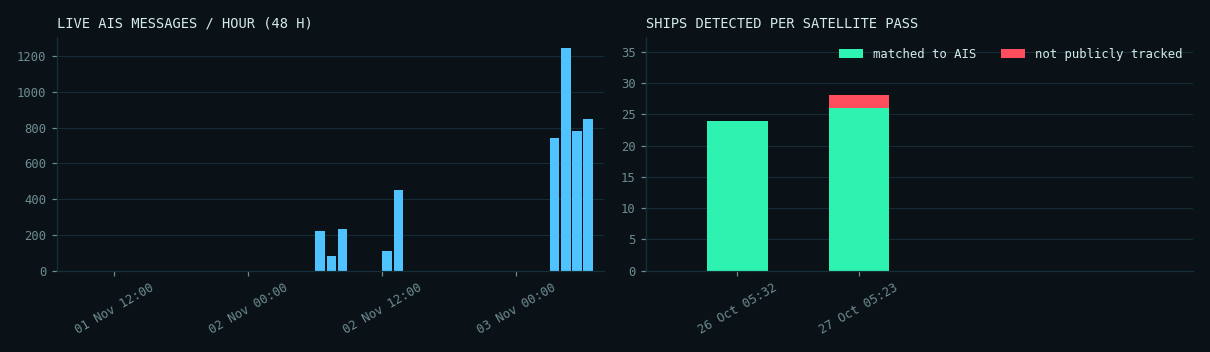
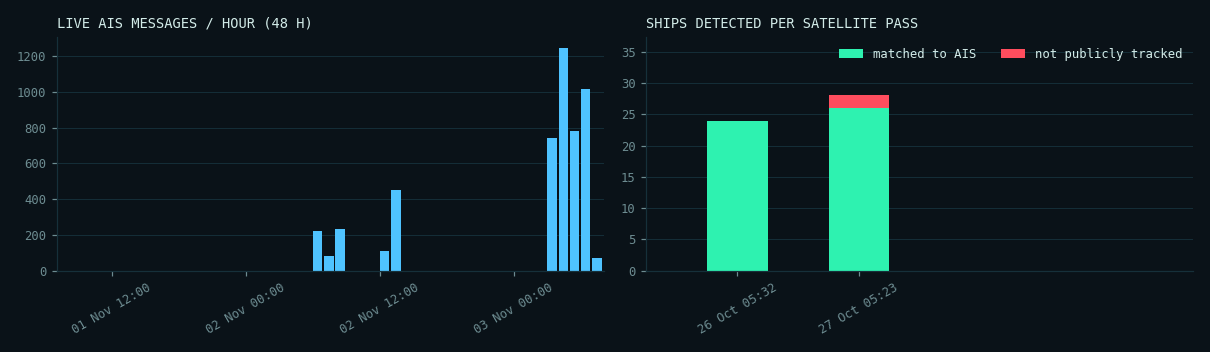
Automatic site update 2026-11-03 07:04 UTC

diff --git a/docs/denmark/index.html b/docs/denmark/index.html
@@ -83,7 +83,7 @@ footer{border-top:1px solid var(--line);padding:18px 0 28px;font:12px/1.6 var(--
   <div><div class="kicker">SAR &times; AIS &middot; MARITIME AWARENESS</div><div class="title">DARK VESSEL <b>DETECTION</b></div></div></a>
  <div class="status"><span class="pill"><span class="dot live"></span>AIS FEED <strong>LIVE</strong></span>
   <span class="pill">UTC <strong id="utc">--:--:--</strong></span>
-  <span class="pill">UPDATED <strong>03 Nov 06:51</strong></span></div>
+  <span class="pill">UPDATED <strong>03 Nov 07:05</strong></span></div>
 </div><nav class="tabs"><a class="" href="../index.html">OVERVIEW</a><a class="" href="../mumbai/index.html">MUMBAI</a><a class="on" href="../denmark/index.html">DENMARK</a><a class="" href="../nn/index.html">NEURAL NET</a><a class="" href="../demo/index.html">SIMULATION</a></nav></div></header>
 <main class="wrap"><div class="coords">SECTOR // DENMARK &middot; 55.55&ndash;55.85&deg;N &middot; 12.55&ndash;12.95&deg;E</div>
 <h1>Oresund, Copenhagen (Denmark/Sweden)</h1><p class="lede">Validation area. Sentinel-1 images it almost daily and coastal AIS coverage is dense, so the full match between radar and AIS can be shown and checked.</p>
@@ -98,7 +98,7 @@ footer{border-top:1px solid var(--line);padding:18px 0 28px;font:12px/1.6 var(--
 <div class="legend"><span><i style="background:var(--green)"></i>matched to AIS</span><span><i style="background:var(--red)"></i>not tracked &middot; high confidence</span>
 <span><i style="background:var(--amber)"></i>not tracked &middot; low confidence</span><span><i style="background:var(--cyan)"></i>live AIS position</span></div>
 <div id="map" class="map"></div><script>
-const D=[{"lon": 12.574560869565218, "lat": 55.849597826086956, "length_m": 72.681575622935, "score": 0.6554655519501138, "shore_km": 0.14150886088341372, "status": "matched", "reason": "", "confidence": "high", "crop": "", "ship_prob": 0.9335045218467712}, {"lon": 12.704759174311928, "lat": 55.82280412844037, "length_m": 364.1071436957287, "score": 0.9904753373251979, "shore_km": 9.407061429825474, "status": "matched", "reason": "", "confidence": "high", "crop": "", "ship_prob": 0.9868959784507751}, {"lon": 12.786416463414636, "lat": 55.804669512195126, "length_m": 155.0522474362954, "score": 0.9999646038759398, "shore_km": 4.658419014138412, "status": "matched", "reason": "", "confidence": "high", "crop": "", "ship_prob": 0.9993557333946228}, {"lon": 12.88229375, "lat": 55.849146875, "length_m": 53.38783327710226, "score": 0.9899546194309776, "shore_km": 0.9067240720863213, "status": "candidate", "reason": "same_spot_in_another_pass", "confidence": "low", "crop": "crops/S1-Oresund-20261027_37.png", "ship_prob": 0.7905591130256653}, {"lon": 12.604004166666668, "lat": 55.75985, "length_m": 141.84238362073958, "score": 0.6867268898684522, "shore_km": 0.07168283192738693, "status": "matched", "reason": "", "confidence": "high", "crop": "", "ship_prob": 0.5051270127296448}, {"lon": 12.605736764705883, "lat": 55.75241323529412, "length_m": 122.11483240811877, "score": 0.9136889320646264, "shore_km": 0.6454382429486746, "status": "candidate", "reason": "same_spot_in_another_pass", "confidence": "low", "crop": "crops/S1-Oresund-20261027_77.png", "ship_prob": 0.7927113175392151}, {"lon": 12.703722571428573, "lat": 55.77917742857143, "length_m": 223.0817648726515, "score": 0.9996320924909895, "shore_km": 5.943270442766068, "status": "matched", "reason": "", "confidence": "high", "crop": "", "ship_prob": 0.9938097596168518}, {"lon": 12.902757692307693, "lat": 55.75654230769231, "length_m": 65.46226537445588, "score": 0.7187896049600956, "shore_km": 0.03584141596369347, "status": "matched", "reason": "", "confidence": "high", "crop": "", "ship_prob": 0.8691755533218384}, {"lon": 12.589922222222222, "lat": 55.725764814814816, "length_m": 146.45480845096748, "score": 0.9957587025210503, "shore_km": 0.034771280891766385, "status": "matched", "reason": "", "confidence": "high", "crop": "", "ship_prob": 0.9983701109886169}, {"lon": 12.598472047244096, "lat": 55.72077913385827, "length_m": 207.62671185403417, "score": 0.609772230082722, "shore_km": 0.14016751439395445, "status": "matched", "reason": "", "confidence": "high", "crop": "", "ship_prob": 0.6074324250221252}, {"lon": 12.589218, "lat": 55.712854, "length_m": 90.49550243938293, "score": 0.6486089656085543, "shore_km": 0.043464101114707984, "status": "matched", "reason": "", "confidence": "high", "crop": "", "ship_prob": 0.9998902082443237}, {"lon": 12.59024090909091, "lat": 55.71147090909091, "length_m": 162.54265478639104, "score": 1.0, "shore_km": 0.06146752127277559, "status": "matched", "reason": "", "confidence": "high", "crop": "", "ship_prob": 0.9999992847442627}, {"lon": 12.597835937500001, "lat": 55.701648437500005, "length_m": 133.31776511703256, "score": 0.9396217092764791, "shore_km": 0.06789309632894441, "status": "matched", "reason": "", "confidence": "high", "crop": "", "ship_prob": 0.9999727010726929}, {"lon": 12.60914, "lat": 55.69712, "length_m": 65.36743236464424, "score": 0.7827588237578229, "shore_km": 0.03134240904220623, "status": "matched", "reason": "", "confidence": "high", "crop": "", "ship_prob": 0.9867132902145386}, {"lon": 12.668552272727274, "lat": 55.72007840909091, "length_m": 207.26605497726354, "score": 0.6251792307103263, "shore_km": 0.03584141596369347, "status": "matched", "reason": "", "confidence": "high", "crop": "", "ship_prob": 0.9087074398994446}, {"lon": 12.5996, "lat": 55.68885, "length_m": 40.00855981470757, "score": 0.7664068666153926, "shore_km": 0.024587008509110237, "status": "matched", "reason": "", "confidence": "high", "crop": "", "ship_prob": 0.9766618013381958}, {"lon": 12.595819230769232, "lat": 55.67989871794872, "length_m": 127.62371588738732, "score": 0.9426870407335851, "shore_km": 0.05068741655051085, "status": "matched", "reason": "", "confidence": "high", "crop": "", "ship_prob": 0.9998841285705566}, {"lon": 12.594722222222224, "lat": 55.67918888888889, "length_m": 40.64467714079742, "score": 0.7639524834029205, "shore_km": 0.043464101114707984, "status": "matched", "reason": "", "confidence": "high", "crop": "", "ship_prob": 0.9999454021453857}, {"lon": 12.610660714285714, "lat": 55.69618571428572, "length_m": 94.51225356515693, "score": 0.9621795096736379, "shore_km": 0.03134240904220623, "status": "matched", "reason": "", "confidence": "high", "crop": "", "ship_prob": 0.999042809009552}, {"lon": 12.649045000000001, "lat": 55.692155, "length_m": 80.63364746000343, "score": 0.8515033668168979, "shore_km": 0.8863693295037299, "status": "matched", "reason": "", "confidence": "high", "crop": "", "ship_prob": 0.4333752989768982}, {"lon": 12.630751724137932, "lat": 55.685453448275865, "length_m": 125.00287123881988, "score": 0.93629426700422, "shore_km": 0.043464101114707984, "status": "matched", "reason": "", "confidence": "high", "crop": "", "ship_prob": 0.9975905418395996}, {"lon": 12.634987254901962, "lat": 55.677338235294116, "length_m": 276.5478352749318, "score": 0.7686103584091717, "shore_km": 0.024587008509110237, "status": "matched", "reason": "", "confidence": "high", "crop": "", "ship_prob": 0.9729636907577515}, {"lon": 12.68766150442478, "lat": 55.69581814159292, "length_m": 176.8074930452176, "score": 0.923202226335388, "shore_km": 2.6834920471942074, "status": "matched", "reason": "", "confidence": "high", "crop": "", "ship_prob": 0.8427141904830933}, {"lon": 12.65826847826087, "lat": 55.63610108695652, "length_m": 174.21377549767067, "score": 0.9833187000337672, "shore_km": 0.043464101114707984, "status": "matched", "reason": "", "confidence": "high", "crop": "", "ship_prob": 0.9998973608016968}, {"lon": 12.680683333333334, "lat": 55.610910000000004, "length_m": 74.22790892756812, "score": 0.6314184609397504, "shore_km": 0.03134240904220623, "status": "matched", "reason": "", "confidence": "high", "crop": "", "ship_prob": 0.44054293632507324}, {"lon": 12.868352132196163, "lat": 55.60022420042644, "length_m": 299.20726350177785, "score": 0.9999960398718075, "shore_km": 2.8169298200726325, "status": "matched", "reason": "", "confidence": "high", "crop": "", "ship_prob": 0.9967911839485168}, {"lon": 12.680875, "lat": 55.59323, "length_m": 95.51211981545671, "score": 0.7585723176580392, "shore_km": 0.03584141596369347, "status": "matched", "reason": "", "confidence": "high", "crop": "", "ship_prob": 0.797581672668457}, {"lon": 12.706387741935485, "lat": 55.56306903225806, "length_m": 301.4640427512081, "score": 0.9999731380181186, "shore_km": 3.1965238712919084, "status": "matched", "reason": "", "confidence": "high", "crop": "", "ship_prob": 0.9941650032997131}],LIVE=[{"lon": 12.488356666666666, "lat": 55.51745833333334, "sog": 0.0, "age": 20}, {"lon": 12.833333333333334, "lat": 55.855916666666666, "sog": 0.0, "age": 18}, {"lon": 12.98892, "lat": 55.62665666666667, "sog": 0.0, "age": 17}, {"lon": 12.831928333333334, "lat": 55.85404333333334, "sog": 0.0, "age": 17}, {"lon": 12.72982, "lat": 55.75190166666666, "sog": 0.0, "age": 17}, {"lon": 12.630748333333335, "lat": 55.689814999999996, "sog": 0.0, "age": 16}, {"lon": 12.603531666666667, "lat": 55.760585, "sog": 0.0, "age": 14}, {"lon": 12.603488333333333, "lat": 55.76052, "sog": 0.0, "age": 12}, {"lon": 12.599025000000001, "lat": 55.68903, "sog": 0.0, "age": 11}, {"lon": 12.676871666666667, "lat": 55.593945, "sog": 0.0, "age": 11}, {"lon": 12.835138333333333, "lat": 55.85987, "sog": 0.0, "age": 9}, {"lon": 12.594931666666668, "lat": 55.68246333333333, "sog": 0.0, "age": 9}, {"lon": 12.8337, "lat": 55.85573333333333, "sog": 0.0, "age": 8}, {"lon": 12.67103, "lat": 55.80437, "sog": 7.5, "age": 8}, {"lon": 12.830375, "lat": 55.85599, "sog": 0.0, "age": 8}, {"lon": 12.74443, "lat": 55.99321833333333, "sog": 0.0, "age": 7}, {"lon": 12.997241666666667, "lat": 55.61376166666666, "sog": 0.0, "age": 7}, {"lon": 12.667035, "lat": 55.718873333333335, "sog": 0.0, "age": 7}, {"lon": 12.999793333333335, "lat": 55.618365000000004, "sog": 0.0, "age": 6}, {"lon": 12.892186666666667, "lat": 55.52375, "sog": 0.0, "age": 6}, {"lon": 12.827631666666667, "lat": 55.86268666666667, "sog": 0.0, "age": 5}, {"lon": 12.593483333333333, "lat": 55.679125, "sog": 0.0, "age": 5}, {"lon": 12.990161666666667, "lat": 55.626885, "sog": 0.0, "age": 4}, {"lon": 12.793591666666666, "lat": 55.86846833333333, "sog": 5.7, "age": 4}, {"lon": 12.67917, "lat": 55.85080833333333, "sog": 8.4, "age": 4}, {"lon": 12.90349, "lat": 55.756643333333336, "sog": 0.1, "age": 4}, {"lon": 12.927976666666666, "lat": 55.67614833333334, "sog": 5.0, "age": 4}, {"lon": 12.706881666666668, "lat": 55.500275, "sog": 11.5, "age": 4}, {"lon": 12.634101666666668, "lat": 55.67576, "sog": 0.0, "age": 4}, {"lon": 12.825263333333334, "lat": 55.86550833333333, "sog": 0.0, "age": 3}, {"lon": 12.823638333333333, "lat": 55.866409999999995, "sog": 0.1, "age": 3}, {"lon": 12.828116666666666, "lat": 55.86160666666667, "sog": 0.0, "age": 2}, {"lon": 12.680413333333332, "lat": 55.611255, "sog": 0.0, "age": 2}, {"lon": 13.058496666666667, "lat": 55.67566166666666, "sog": 0.0, "age": 2}, {"lon": 12.59298, "lat": 55.679265, "sog": 0.0, "age": 2}, {"lon": 12.67176, "lat": 55.43888166666667, "sog": 10.7, "age": 2}, {"lon": 12.8329, "lat": 55.85850666666667, "sog": 0.0, "age": 2}, {"lon": 12.690681666666668, "lat": 55.58618, "sog": 8.7, "age": 2}, {"lon": 12.800338333333334, "lat": 55.867713333333334, "sog": 5.7, "age": 2}, {"lon": 12.701333333333334, "lat": 55.58576166666667, "sog": 8.9, "age": 2}, {"lon": 13.033296666666667, "lat": 55.62450666666667, "sog": 0.0, "age": 1}, {"lon": 12.729733333333334, "lat": 55.980090000000004, "sog": 0.0, "age": 1}, {"lon": 12.572735, "lat": 55.85085333333333, "sog": 0.0, "age": 1}, {"lon": 12.635388333333333, "lat": 55.676476666666666, "sog": 0.0, "age": 1}, {"lon": 12.501059999999999, "lat": 55.611308333333334, "sog": 0.0, "age": 1}, {"lon": 12.997348333333333, "lat": 55.613655, "sog": 0.0, "age": 1}, {"lon": 13.033778333333334, "lat": 55.62455833333333, "sog": 0.0, "age": 1}, {"lon": 12.625285, "lat": 55.691065, "sog": 0.0, "age": 0}, {"lon": 12.662168333333334, "lat": 55.842585, "sog": 6.3, "age": 0}, {"lon": 12.744418333333334, "lat": 55.99330166666667, "sog": 0.0, "age": 0}, {"lon": 12.64747, "lat": 55.67689333333333, "sog": 0.1, "age": 0}, {"lon": 12.485629999999999, "lat": 55.60062666666667, "sog": 0.0, "age": 0}, {"lon": 12.824366666666666, "lat": 55.86601666666666, "sog": 0.5, "age": 0}, {"lon": 12.676631666666667, "lat": 55.93179333333333, "sog": 0.0, "age": 0}, {"lon": 12.634875, "lat": 55.68712333333334, "sog": 0.0, "age": 0}, {"lon": 12.680071666666667, "lat": 55.592911666666666, "sog": 0.0, "age": 0}],B=[[55.55,12.55],[55.85,12.95]];const m=L.map('map',{zoomSnap:.25}).fitBounds(B);
+const D=[{"lon": 12.574560869565218, "lat": 55.849597826086956, "length_m": 72.681575622935, "score": 0.6554655519501138, "shore_km": 0.14150886088341372, "status": "matched", "reason": "", "confidence": "high", "crop": "", "ship_prob": 0.9335045218467712}, {"lon": 12.704759174311928, "lat": 55.82280412844037, "length_m": 364.1071436957287, "score": 0.9904753373251979, "shore_km": 9.407061429825474, "status": "matched", "reason": "", "confidence": "high", "crop": "", "ship_prob": 0.9868959784507751}, {"lon": 12.786416463414636, "lat": 55.804669512195126, "length_m": 155.0522474362954, "score": 0.9999646038759398, "shore_km": 4.658419014138412, "status": "matched", "reason": "", "confidence": "high", "crop": "", "ship_prob": 0.9993557333946228}, {"lon": 12.88229375, "lat": 55.849146875, "length_m": 53.38783327710226, "score": 0.9899546194309776, "shore_km": 0.9067240720863213, "status": "candidate", "reason": "same_spot_in_another_pass", "confidence": "low", "crop": "crops/S1-Oresund-20261027_37.png", "ship_prob": 0.7905591130256653}, {"lon": 12.604004166666668, "lat": 55.75985, "length_m": 141.84238362073958, "score": 0.6867268898684522, "shore_km": 0.07168283192738693, "status": "matched", "reason": "", "confidence": "high", "crop": "", "ship_prob": 0.5051270127296448}, {"lon": 12.605736764705883, "lat": 55.75241323529412, "length_m": 122.11483240811877, "score": 0.9136889320646264, "shore_km": 0.6454382429486746, "status": "candidate", "reason": "same_spot_in_another_pass", "confidence": "low", "crop": "crops/S1-Oresund-20261027_77.png", "ship_prob": 0.7927113175392151}, {"lon": 12.703722571428573, "lat": 55.77917742857143, "length_m": 223.0817648726515, "score": 0.9996320924909895, "shore_km": 5.943270442766068, "status": "matched", "reason": "", "confidence": "high", "crop": "", "ship_prob": 0.9938097596168518}, {"lon": 12.902757692307693, "lat": 55.75654230769231, "length_m": 65.46226537445588, "score": 0.7187896049600956, "shore_km": 0.03584141596369347, "status": "matched", "reason": "", "confidence": "high", "crop": "", "ship_prob": 0.8691755533218384}, {"lon": 12.589922222222222, "lat": 55.725764814814816, "length_m": 146.45480845096748, "score": 0.9957587025210503, "shore_km": 0.034771280891766385, "status": "matched", "reason": "", "confidence": "high", "crop": "", "ship_prob": 0.9983701109886169}, {"lon": 12.598472047244096, "lat": 55.72077913385827, "length_m": 207.62671185403417, "score": 0.609772230082722, "shore_km": 0.14016751439395445, "status": "matched", "reason": "", "confidence": "high", "crop": "", "ship_prob": 0.6074324250221252}, {"lon": 12.589218, "lat": 55.712854, "length_m": 90.49550243938293, "score": 0.6486089656085543, "shore_km": 0.043464101114707984, "status": "matched", "reason": "", "confidence": "high", "crop": "", "ship_prob": 0.9998902082443237}, {"lon": 12.59024090909091, "lat": 55.71147090909091, "length_m": 162.54265478639104, "score": 1.0, "shore_km": 0.06146752127277559, "status": "matched", "reason": "", "confidence": "high", "crop": "", "ship_prob": 0.9999992847442627}, {"lon": 12.597835937500001, "lat": 55.701648437500005, "length_m": 133.31776511703256, "score": 0.9396217092764791, "shore_km": 0.06789309632894441, "status": "matched", "reason": "", "confidence": "high", "crop": "", "ship_prob": 0.9999727010726929}, {"lon": 12.60914, "lat": 55.69712, "length_m": 65.36743236464424, "score": 0.7827588237578229, "shore_km": 0.03134240904220623, "status": "matched", "reason": "", "confidence": "high", "crop": "", "ship_prob": 0.9867132902145386}, {"lon": 12.668552272727274, "lat": 55.72007840909091, "length_m": 207.26605497726354, "score": 0.6251792307103263, "shore_km": 0.03584141596369347, "status": "matched", "reason": "", "confidence": "high", "crop": "", "ship_prob": 0.9087074398994446}, {"lon": 12.5996, "lat": 55.68885, "length_m": 40.00855981470757, "score": 0.7664068666153926, "shore_km": 0.024587008509110237, "status": "matched", "reason": "", "confidence": "high", "crop": "", "ship_prob": 0.9766618013381958}, {"lon": 12.595819230769232, "lat": 55.67989871794872, "length_m": 127.62371588738732, "score": 0.9426870407335851, "shore_km": 0.05068741655051085, "status": "matched", "reason": "", "confidence": "high", "crop": "", "ship_prob": 0.9998841285705566}, {"lon": 12.594722222222224, "lat": 55.67918888888889, "length_m": 40.64467714079742, "score": 0.7639524834029205, "shore_km": 0.043464101114707984, "status": "matched", "reason": "", "confidence": "high", "crop": "", "ship_prob": 0.9999454021453857}, {"lon": 12.610660714285714, "lat": 55.69618571428572, "length_m": 94.51225356515693, "score": 0.9621795096736379, "shore_km": 0.03134240904220623, "status": "matched", "reason": "", "confidence": "high", "crop": "", "ship_prob": 0.999042809009552}, {"lon": 12.649045000000001, "lat": 55.692155, "length_m": 80.63364746000343, "score": 0.8515033668168979, "shore_km": 0.8863693295037299, "status": "matched", "reason": "", "confidence": "high", "crop": "", "ship_prob": 0.4333752989768982}, {"lon": 12.630751724137932, "lat": 55.685453448275865, "length_m": 125.00287123881988, "score": 0.93629426700422, "shore_km": 0.043464101114707984, "status": "matched", "reason": "", "confidence": "high", "crop": "", "ship_prob": 0.9975905418395996}, {"lon": 12.634987254901962, "lat": 55.677338235294116, "length_m": 276.5478352749318, "score": 0.7686103584091717, "shore_km": 0.024587008509110237, "status": "matched", "reason": "", "confidence": "high", "crop": "", "ship_prob": 0.9729636907577515}, {"lon": 12.68766150442478, "lat": 55.69581814159292, "length_m": 176.8074930452176, "score": 0.923202226335388, "shore_km": 2.6834920471942074, "status": "matched", "reason": "", "confidence": "high", "crop": "", "ship_prob": 0.8427141904830933}, {"lon": 12.65826847826087, "lat": 55.63610108695652, "length_m": 174.21377549767067, "score": 0.9833187000337672, "shore_km": 0.043464101114707984, "status": "matched", "reason": "", "confidence": "high", "crop": "", "ship_prob": 0.9998973608016968}, {"lon": 12.680683333333334, "lat": 55.610910000000004, "length_m": 74.22790892756812, "score": 0.6314184609397504, "shore_km": 0.03134240904220623, "status": "matched", "reason": "", "confidence": "high", "crop": "", "ship_prob": 0.44054293632507324}, {"lon": 12.868352132196163, "lat": 55.60022420042644, "length_m": 299.20726350177785, "score": 0.9999960398718075, "shore_km": 2.8169298200726325, "status": "matched", "reason": "", "confidence": "high", "crop": "", "ship_prob": 0.9967911839485168}, {"lon": 12.680875, "lat": 55.59323, "length_m": 95.51211981545671, "score": 0.7585723176580392, "shore_km": 0.03584141596369347, "status": "matched", "reason": "", "confidence": "high", "crop": "", "ship_prob": 0.797581672668457}, {"lon": 12.706387741935485, "lat": 55.56306903225806, "length_m": 301.4640427512081, "score": 0.9999731380181186, "shore_km": 3.1965238712919084, "status": "matched", "reason": "", "confidence": "high", "crop": "", "ship_prob": 0.9941650032997131}],LIVE=[{"lon": 12.599025000000001, "lat": 55.68903, "sog": 0.0, "age": 25}, {"lon": 12.830375, "lat": 55.85599, "sog": 0.0, "age": 22}, {"lon": 12.999793333333335, "lat": 55.618365000000004, "sog": 0.0, "age": 20}, {"lon": 12.680413333333332, "lat": 55.611255, "sog": 0.0, "age": 16}, {"lon": 12.8329, "lat": 55.85850666666667, "sog": 0.0, "age": 16}, {"lon": 13.033296666666667, "lat": 55.62450666666667, "sog": 0.0, "age": 15}, {"lon": 12.729733333333334, "lat": 55.980090000000004, "sog": 0.0, "age": 15}, {"lon": 12.634875, "lat": 55.68712333333334, "sog": 0.0, "age": 14}, {"lon": 13.035135, "lat": 55.624705, "sog": 0.1, "age": 12}, {"lon": 12.592983333333333, "lat": 55.679275, "sog": 0.0, "age": 12}, {"lon": 12.835141666666667, "lat": 55.85986333333334, "sog": 0.0, "age": 11}, {"lon": 12.594951666666667, "lat": 55.68244666666667, "sog": 0.0, "age": 11}, {"lon": 12.744458333333334, "lat": 55.993215, "sog": 0.0, "age": 9}, {"lon": 12.635359999999999, "lat": 55.67646666666667, "sog": 0.0, "age": 9}, {"lon": 12.646881666666667, "lat": 55.677405, "sog": 0.0, "age": 9}, {"lon": 12.691759999999999, "lat": 55.830349999999996, "sog": 8.7, "age": 9}, {"lon": 12.676468333333334, "lat": 55.931866666666664, "sog": 0.1, "age": 9}, {"lon": 12.903493333333333, "lat": 55.756645000000006, "sog": 0.1, "age": 9}, {"lon": 12.665898333333333, "lat": 55.71978, "sog": 0.0, "age": 8}, {"lon": 13.033785, "lat": 55.624575, "sog": 0.0, "age": 8}, {"lon": 12.671266666666666, "lat": 55.832168333333335, "sog": 7.2, "age": 8}, {"lon": 12.997363333333334, "lat": 55.61365333333333, "sog": 0.0, "age": 7}, {"lon": 12.6761, "lat": 55.593650000000004, "sog": 0.0, "age": 6}, {"lon": 12.997250000000001, "lat": 55.613764999999994, "sog": 0.0, "age": 6}, {"lon": 12.634103333333334, "lat": 55.67576833333333, "sog": 0.0, "age": 6}, {"lon": 12.823631666666667, "lat": 55.866393333333335, "sog": 0.1, "age": 5}, {"lon": 12.663045, "lat": 55.409144999999995, "sog": 10.6, "age": 5}, {"lon": 12.892173333333334, "lat": 55.523720000000004, "sog": 0.0, "age": 5}, {"lon": 12.827586666666667, "lat": 55.862743333333334, "sog": 0.0, "age": 5}, {"lon": 12.647471666666666, "lat": 55.67689166666666, "sog": 0.0, "age": 5}, {"lon": 12.603478333333333, "lat": 55.760511666666666, "sog": 0.0, "age": 5}, {"lon": 12.593486666666667, "lat": 55.679185, "sog": 0.0, "age": 5}, {"lon": 12.82485, "lat": 55.86593333333334, "sog": 0.0, "age": 4}, {"lon": 12.603521666666667, "lat": 55.760575, "sog": 0.0, "age": 4}, {"lon": 12.831928333333334, "lat": 55.85404166666667, "sog": 0.0, "age": 4}, {"lon": 12.99016, "lat": 55.626886666666664, "sog": 0.0, "age": 3}, {"lon": 12.703475, "lat": 55.55499666666666, "sog": 10.2, "age": 3}, {"lon": 12.667023333333333, "lat": 55.71893, "sog": 0.0, "age": 3}, {"lon": 12.674791666666666, "lat": 55.76500333333333, "sog": 7.0, "age": 3}, {"lon": 12.501028333333332, "lat": 55.611331666666665, "sog": 0.0, "age": 2}, {"lon": 13.058496666666667, "lat": 55.67566166666666, "sog": 0.0, "age": 2}, {"lon": 12.90721, "lat": 55.695681666666665, "sog": 4.9, "age": 1}, {"lon": 12.82811, "lat": 55.86155, "sog": 0.0, "age": 1}, {"lon": 12.988948333333333, "lat": 55.626655, "sog": 0.0, "age": 1}, {"lon": 12.833716666666668, "lat": 55.85574999999999, "sog": 0.0, "age": 1}, {"lon": 12.71251, "lat": 55.55320666666667, "sog": 11.5, "age": 1}, {"lon": 12.825151666666667, "lat": 55.86394, "sog": 2.9, "age": 1}, {"lon": 12.825355, "lat": 55.865516666666664, "sog": 0.0, "age": 1}, {"lon": 12.676870000000001, "lat": 55.59395, "sog": 0.0, "age": 1}, {"lon": 12.62528, "lat": 55.691055, "sog": 0.0, "age": 0}, {"lon": 12.485038333333334, "lat": 55.60062666666667, "sog": 0.7, "age": 0}, {"lon": 12.825925000000002, "lat": 55.86255166666667, "sog": 3.1, "age": 0}, {"lon": 12.744431666666665, "lat": 55.99328, "sog": 0.0, "age": 0}, {"lon": 12.705055, "lat": 55.54807166666667, "sog": 7.2, "age": 0}, {"lon": 12.572731666666666, "lat": 55.850858333333335, "sog": 0.0, "age": 0}, {"lon": 12.680066666666667, "lat": 55.59290333333333, "sog": 0.0, "age": 0}],B=[[55.55,12.55],[55.85,12.95]];const m=L.map('map',{zoomSnap:.25}).fitBounds(B);
 // re-fit once layout has settled: if the container had no size when the map was created, Leaflet falls back to zoom 0
 const refit=()=>{m.invalidateSize();m.fitBounds(B);};setTimeout(refit,0);window.addEventListener('load',refit);
 // standard OSM tiles (no API key), turned into a dark "radar console" basemap with a CSS filter (.radar-tiles)
@@ -116,7 +116,7 @@ L.control.layers(null,{'Radar detections (selected pass)':det,'Live AIS, last 30
 </script>
 <h2>Pass log</h2><div class='tablewrap'><table><thead><tr><th>pass (UTC)</th><th>ships</th><th>matched</th><th>not tracked</th><th>low conf.</th><th>match rate</th><th>AIS msgs</th></tr></thead><tbody><tr><td>2026-10-27 05:23 UTC</td><td>28</td><td class='ok'>26</td><td class='bad'>0</td><td style='color:var(--amber)'>2</td><td>93%</td><td>10687</td></tr><tr><td>2026-10-26 05:32 UTC</td><td>24</td><td class='ok'>24</td><td class='bad'>0</td><td style='color:var(--amber)'>0</td><td>100%</td><td>11603</td></tr></tbody></table></div>
 <h2>Telemetry</h2><img class="chart" src="charts.png" alt="AIS messages per hour and ships detected per pass">
-<p class="muted mono" style="font-size:12px">Feed gaps in the last 24 h: 15 (1210 min) &middot; AIS messages in the last hour: 848</p>
+<p class="muted mono" style="font-size:12px">Feed gaps in the last 24 h: 15 (1201 min) &middot; AIS messages in the last hour: 1084</p>
 <h2>Recent Sentinel-1 acquisitions</h2><ul class="acq"><li>2026-11-02 05:23 UTC</li><li>2026-11-01 16:44 UTC</li><li>2026-11-01 05:31 UTC</li><li>2026-10-31 16:52 UTC</li><li>2026-10-30 17:00 UTC</li><li>2026-10-27 05:23 UTC</li><li>2026-10-26 05:32 UTC</li><li>2026-10-25 16:52 UTC</li></ul></main>
 <footer><div class="wrap">Data: Copernicus Sentinel-1 (ESA) &middot; AIS via aisstream.io and the Danish Maritime Authority &middot;
 coastlines, structures and basemap &copy; OpenStreetMap contributors. Flags are candidates for review, not accusations.</div></footer>

diff --git a/docs/index.html b/docs/index.html
@@ -83,7 +83,7 @@ footer{border-top:1px solid var(--line);padding:18px 0 28px;font:12px/1.6 var(--
   <div><div class="kicker">SAR &times; AIS &middot; MARITIME AWARENESS</div><div class="title">DARK VESSEL <b>DETECTION</b></div></div></a>
  <div class="status"><span class="pill"><span class="dot live"></span>AIS FEED <strong>LIVE</strong></span>
   <span class="pill">UTC <strong id="utc">--:--:--</strong></span>
-  <span class="pill">UPDATED <strong>03 Nov 06:51</strong></span></div>
+  <span class="pill">UPDATED <strong>03 Nov 07:05</strong></span></div>
 </div><nav class="tabs"><a class="on" href="index.html">OVERVIEW</a><a class="" href="mumbai/index.html">MUMBAI</a><a class="" href="denmark/index.html">DENMARK</a><a class="" href="nn/index.html">NEURAL NET</a><a class="" href="demo/index.html">SIMULATION</a></nav></div></header>
 <main class="wrap"><div class="coords">SYSTEM OVERVIEW</div>
 <h1>Ships the radar sees that nobody is tracking</h1>
@@ -121,7 +121,7 @@ same pipeline using historical AIS. Next expected passes: Mumbai about 5 Nov 01:
 receivers with limited range, and ships under about 40 m are not reliably visible to the satellite. Low-confidence flags are the ones the
 data cannot support: beyond receiver range, during an AIS feed gap, or with no AIS recorded.</div>
 <h2>Automatic runs</h2><p class="muted mono" style="font-size:12.5px;margin-top:-4px">Each row is one automatic website rebuild, with the live AIS counts at that moment. Newest first.</p>
-<div class="tablewrap"><table><thead><tr><th>run (UTC)</th><th>mumbai live</th><th>mumbai msg/h</th><th>denmark live</th><th>denmark msg/h</th></tr></thead><tbody><tr><td>2026-11-03 06:51</td><td>0</td><td>0</td><td>56</td><td>848</td></tr><tr><td>2026-11-03 06:49</td><td>0</td><td>0</td><td>55</td><td>824</td></tr><tr><td>2026-11-03 06:35</td><td>0</td><td>0</td><td>58</td><td>800</td></tr><tr><td>2026-11-03 06:34</td><td>0</td><td>0</td><td>58</td><td>816</td></tr><tr><td>2026-11-03 06:20</td><td>0</td><td>0</td><td>51</td><td>876</td></tr><tr><td>2026-11-03 06:19</td><td>0</td><td>0</td><td>47</td><td>866</td></tr><tr><td>2026-11-03 05:46</td><td>0</td><td>0</td><td>62</td><td>986</td></tr><tr><td>2026-11-03 05:44</td><td>0</td><td>0</td><td>62</td><td>992</td></tr><tr><td>2026-11-03 05:30</td><td>0</td><td>0</td><td>57</td><td>972</td></tr><tr><td>2026-11-03 05:29</td><td>0</td><td>0</td><td>57</td><td>970</td></tr><tr><td>2026-11-03 05:14</td><td>0</td><td>0</td><td>50</td><td>1000</td></tr><tr><td>2026-11-03 05:13</td><td>0</td><td>0</td><td>50</td><td>1026</td></tr><tr><td>2026-11-03 04:59</td><td>0</td><td>0</td><td>58</td><td>1250</td></tr><tr><td>2026-11-03 04:58</td><td>0</td><td>0</td><td>59</td><td>1250</td></tr><tr><td>2026-11-03 04:44</td><td>0</td><td>0</td><td>60</td><td>1240</td></tr><tr><td>2026-11-03 04:42</td><td>0</td><td>0</td><td>59</td><td>1248</td></tr><tr><td>2026-11-03 04:28</td><td>0</td><td>0</td><td>58</td><td>1242</td></tr><tr><td>2026-11-03 04:27</td><td>0</td><td>0</td><td>57</td><td>1240</td></tr><tr><td>2026-11-03 04:12</td><td>0</td><td>0</td><td>56</td><td>994</td></tr><tr><td>2026-11-03 04:11</td><td>0</td><td>0</td><td>56</td><td>967</td></tr><tr><td>2026-11-03 03:57</td><td>0</td><td>0</td><td>59</td><td>666</td></tr><tr><td>2026-11-03 03:55</td><td>0</td><td>0</td><td>59</td><td>644</td></tr><tr><td>2026-11-03 03:41</td><td>0</td><td>0</td><td>58</td><td>348</td></tr><tr><td>2026-11-03 03:40</td><td>0</td><td>0</td><td>58</td><td>330</td></tr></tbody></table></div></main>
+<div class="tablewrap"><table><thead><tr><th>run (UTC)</th><th>mumbai live</th><th>mumbai msg/h</th><th>denmark live</th><th>denmark msg/h</th></tr></thead><tbody><tr><td>2026-11-03 07:05</td><td>0</td><td>0</td><td>56</td><td>1084</td></tr><tr><td>2026-11-03 06:51</td><td>0</td><td>0</td><td>56</td><td>848</td></tr><tr><td>2026-11-03 06:49</td><td>0</td><td>0</td><td>55</td><td>824</td></tr><tr><td>2026-11-03 06:35</td><td>0</td><td>0</td><td>58</td><td>800</td></tr><tr><td>2026-11-03 06:34</td><td>0</td><td>0</td><td>58</td><td>816</td></tr><tr><td>2026-11-03 06:20</td><td>0</td><td>0</td><td>51</td><td>876</td></tr><tr><td>2026-11-03 06:19</td><td>0</td><td>0</td><td>47</td><td>866</td></tr><tr><td>2026-11-03 05:46</td><td>0</td><td>0</td><td>62</td><td>986</td></tr><tr><td>2026-11-03 05:44</td><td>0</td><td>0</td><td>62</td><td>992</td></tr><tr><td>2026-11-03 05:30</td><td>0</td><td>0</td><td>57</td><td>972</td></tr><tr><td>2026-11-03 05:29</td><td>0</td><td>0</td><td>57</td><td>970</td></tr><tr><td>2026-11-03 05:14</td><td>0</td><td>0</td><td>50</td><td>1000</td></tr><tr><td>2026-11-03 05:13</td><td>0</td><td>0</td><td>50</td><td>1026</td></tr><tr><td>2026-11-03 04:59</td><td>0</td><td>0</td><td>58</td><td>1250</td></tr><tr><td>2026-11-03 04:58</td><td>0</td><td>0</td><td>59</td><td>1250</td></tr><tr><td>2026-11-03 04:44</td><td>0</td><td>0</td><td>60</td><td>1240</td></tr><tr><td>2026-11-03 04:42</td><td>0</td><td>0</td><td>59</td><td>1248</td></tr><tr><td>2026-11-03 04:28</td><td>0</td><td>0</td><td>58</td><td>1242</td></tr><tr><td>2026-11-03 04:27</td><td>0</td><td>0</td><td>57</td><td>1240</td></tr><tr><td>2026-11-03 04:12</td><td>0</td><td>0</td><td>56</td><td>994</td></tr><tr><td>2026-11-03 04:11</td><td>0</td><td>0</td><td>56</td><td>967</td></tr><tr><td>2026-11-03 03:57</td><td>0</td><td>0</td><td>59</td><td>666</td></tr><tr><td>2026-11-03 03:55</td><td>0</td><td>0</td><td>59</td><td>644</td></tr><tr><td>2026-11-03 03:41</td><td>0</td><td>0</td><td>58</td><td>348</td></tr></tbody></table></div></main>
 <footer><div class="wrap">Data: Copernicus Sentinel-1 (ESA) &middot; AIS via aisstream.io and the Danish Maritime Authority &middot;
 coastlines, structures and basemap &copy; OpenStreetMap contributors. Flags are candidates for review, not accusations.</div></footer>
 <script>(function(){const e=document.getElementById('utc');const t=()=>e.textContent=new Date().toISOString().slice(11,19);t();setInterval(t,1000);})();</script>

diff --git a/docs/mumbai/index.html b/docs/mumbai/index.html
@@ -83,7 +83,7 @@ footer{border-top:1px solid var(--line);padding:18px 0 28px;font:12px/1.6 var(--
   <div><div class="kicker">SAR &times; AIS &middot; MARITIME AWARENESS</div><div class="title">DARK VESSEL <b>DETECTION</b></div></div></a>
  <div class="status"><span class="pill"><span class="dot live"></span>AIS FEED <strong>LIVE</strong></span>
   <span class="pill">UTC <strong id="utc">--:--:--</strong></span>
-  <span class="pill">UPDATED <strong>03 Nov 06:51</strong></span></div>
+  <span class="pill">UPDATED <strong>03 Nov 07:04</strong></span></div>
 </div><nav class="tabs"><a class="" href="../index.html">OVERVIEW</a><a class="on" href="../mumbai/index.html">MUMBAI</a><a class="" href="../denmark/index.html">DENMARK</a><a class="" href="../nn/index.html">NEURAL NET</a><a class="" href="../demo/index.html">SIMULATION</a></nav></div></header>
 <main class="wrap"><div class="coords">SECTOR // MUMBAI &middot; 18.80&ndash;19.10&deg;N &middot; 72.55&ndash;72.95&deg;E</div>
 <h1>Mumbai coast and harbour, India</h1><p class="lede">The project's target area. Sentinel-1 images it about once every 12 days, and free AIS comes only from coastal receivers, so many unmatched ships here are simply out of receiver range.</p>
@@ -116,7 +116,7 @@ L.control.layers(null,{'Radar detections (selected pass)':det,'Live AIS, last 30
 </script>
 <h2>Pass log</h2><div class='tablewrap'><table><thead><tr><th>pass (UTC)</th><th>ships</th><th>matched</th><th>not tracked</th><th>low conf.</th><th>match rate</th><th>AIS msgs</th></tr></thead><tbody><tr><td>2026-10-24 01:02 UTC</td><td>115</td><td class='ok'>0</td><td class='bad'>0</td><td style='color:var(--amber)'>115</td><td>0%</td><td>0</td></tr></tbody></table></div>
 <h2>Telemetry</h2><img class="chart" src="charts.png" alt="AIS messages per hour and ships detected per pass">
-<p class="muted mono" style="font-size:12px">Feed gaps in the last 24 h: 15 (1210 min) &middot; AIS messages in the last hour: 0</p>
+<p class="muted mono" style="font-size:12px">Feed gaps in the last 24 h: 15 (1201 min) &middot; AIS messages in the last hour: 0</p>
 <h2>Recent Sentinel-1 acquisitions</h2><ul class="acq"><li>2026-10-24 01:02 UTC</li></ul></main>
 <footer><div class="wrap">Data: Copernicus Sentinel-1 (ESA) &middot; AIS via aisstream.io and the Danish Maritime Authority &middot;
 coastlines, structures and basemap &copy; OpenStreetMap contributors. Flags are candidates for review, not accusations.</div></footer>

diff --git a/docs/demo/index.html b/docs/demo/index.html
@@ -83,7 +83,7 @@ footer{border-top:1px solid var(--line);padding:18px 0 28px;font:12px/1.6 var(--
   <div><div class="kicker">SAR &times; AIS &middot; MARITIME AWARENESS</div><div class="title">DARK VESSEL <b>DETECTION</b></div></div></a>
  <div class="status"><span class="pill"><span class="dot live"></span>AIS FEED <strong>LIVE</strong></span>
   <span class="pill">UTC <strong id="utc">--:--:--</strong></span>
-  <span class="pill">UPDATED <strong>03 Nov 06:51</strong></span></div>
+  <span class="pill">UPDATED <strong>03 Nov 07:05</strong></span></div>
 </div><nav class="tabs"><a class="" href="../index.html">OVERVIEW</a><a class="" href="../mumbai/index.html">MUMBAI</a><a class="" href="../denmark/index.html">DENMARK</a><a class="" href="../nn/index.html">NEURAL NET</a><a class="on" href="../demo/index.html">SIMULATION</a></nav></div></header>
 <main class="wrap"><div class="coords">SIMULATION // SYNTHETIC SCENES WITH KNOWN GROUND TRUTH</div>
 <h1>Simulation: the whole pipeline with a known answer</h1>

diff --git a/docs/nn/index.html b/docs/nn/index.html
@@ -83,7 +83,7 @@ footer{border-top:1px solid var(--line);padding:18px 0 28px;font:12px/1.6 var(--
   <div><div class="kicker">SAR &times; AIS &middot; MARITIME AWARENESS</div><div class="title">DARK VESSEL <b>DETECTION</b></div></div></a>
  <div class="status"><span class="pill"><span class="dot live"></span>AIS FEED <strong>LIVE</strong></span>
   <span class="pill">UTC <strong id="utc">--:--:--</strong></span>
-  <span class="pill">UPDATED <strong>03 Nov 06:51</strong></span></div>
+  <span class="pill">UPDATED <strong>03 Nov 07:05</strong></span></div>
 </div><nav class="tabs"><a class="" href="../index.html">OVERVIEW</a><a class="" href="../mumbai/index.html">MUMBAI</a><a class="" href="../denmark/index.html">DENMARK</a><a class="on" href="../nn/index.html">NEURAL NET</a><a class="" href="../demo/index.html">SIMULATION</a></nav></div></header>
 <main class="wrap"><div class="coords">NEURAL NETWORK // SHIPCNN</div>
 <h1>ShipCNN: our own convolutional network that decides "is this a ship?"</h1>
